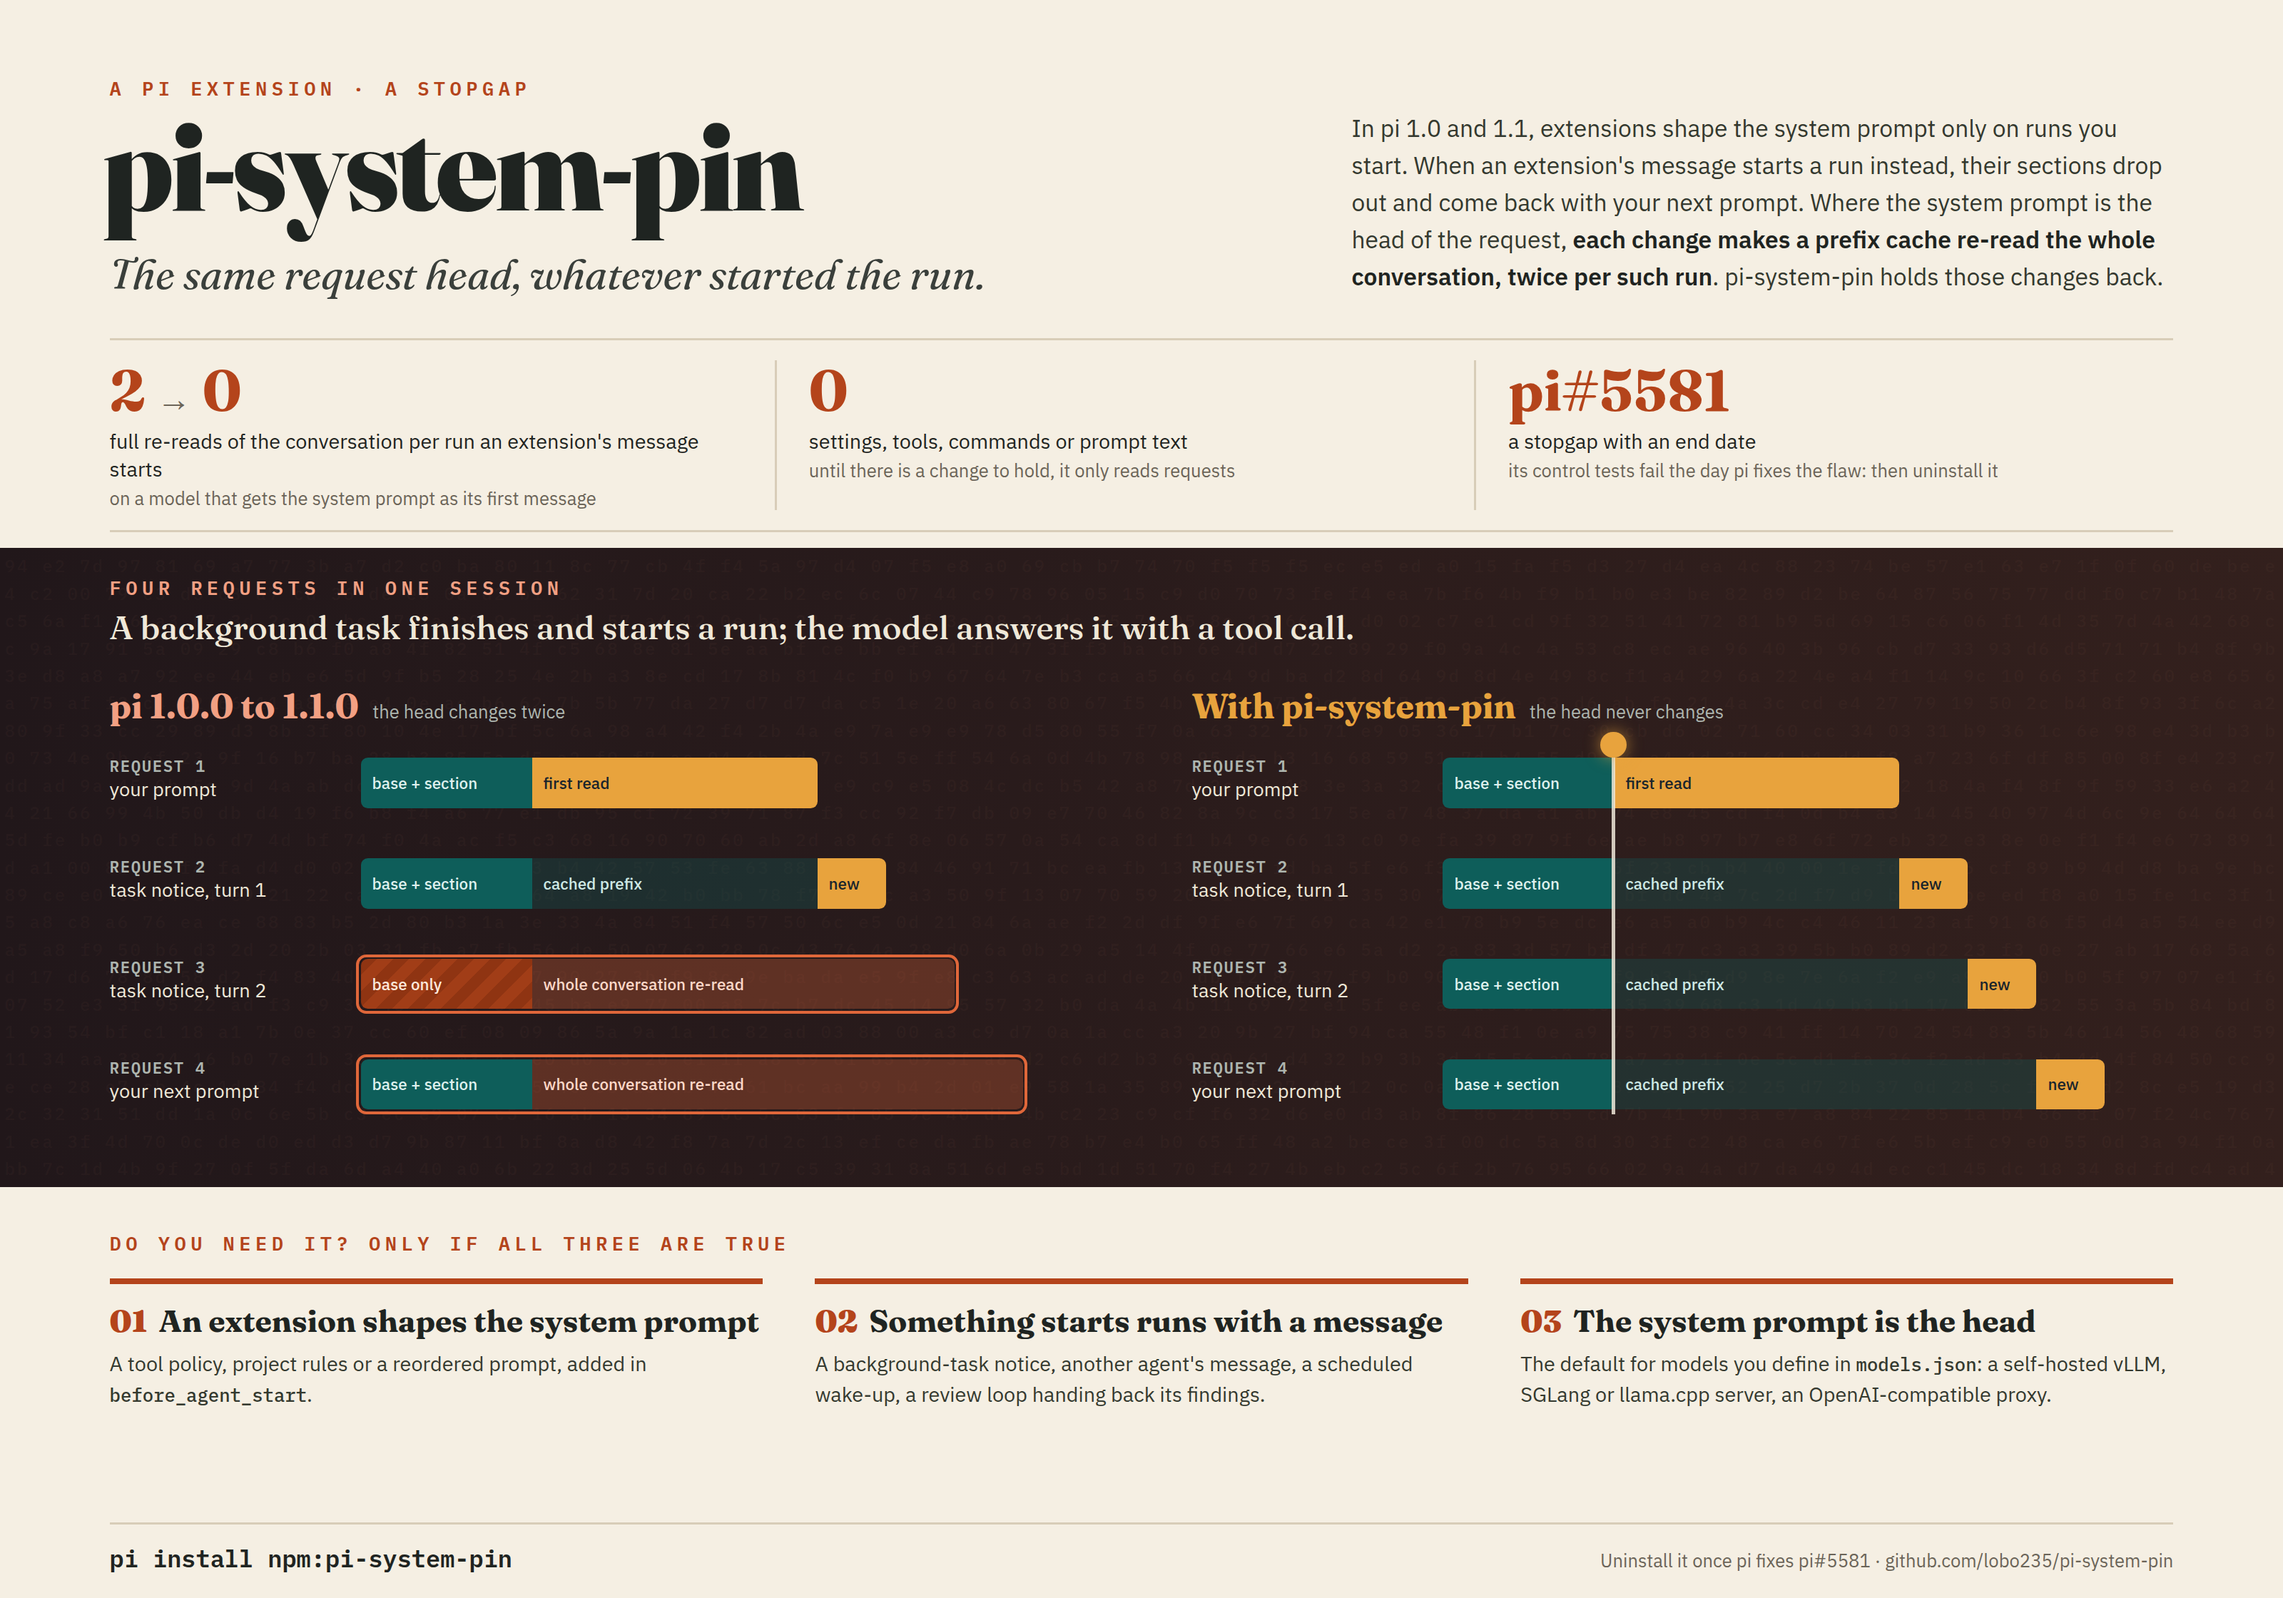
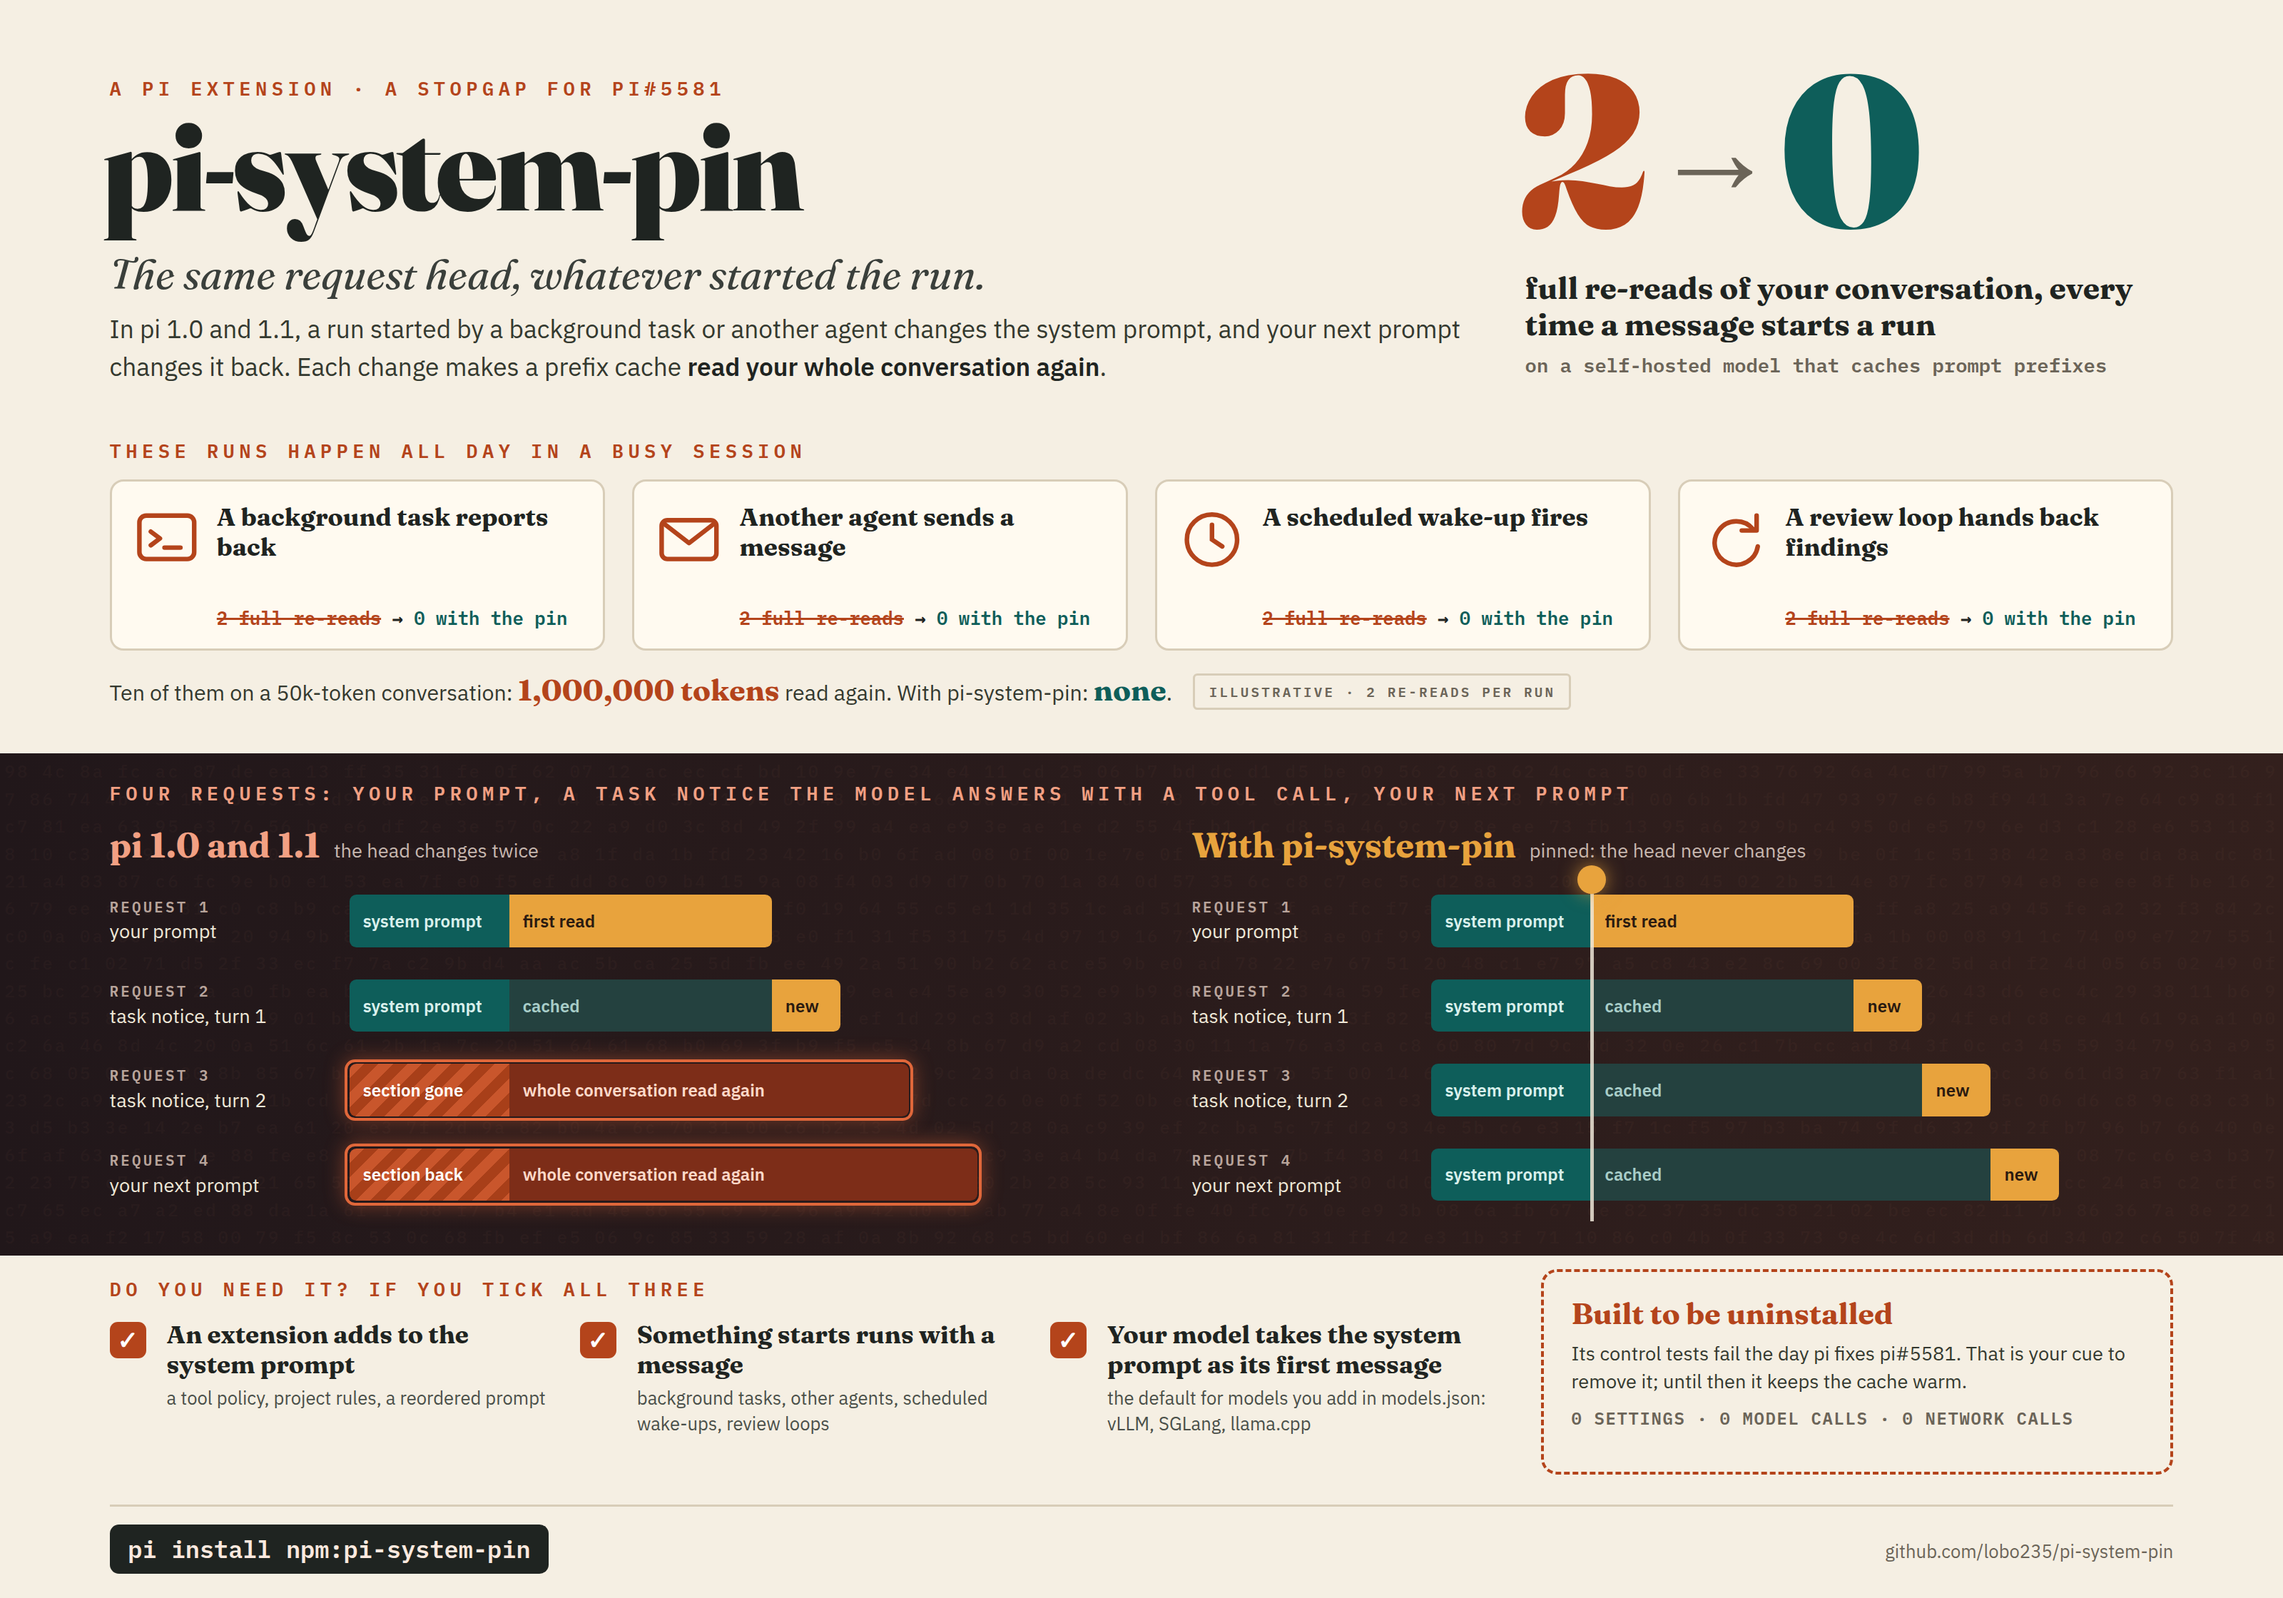
Infographic: lead with the benefit, show the before and after (#12)
Redesigns the README and pi.dev infographic to sell the extension rather
than document it:

- a single headline benefit up top, in the package's own motif;
- a before/after the reader gets at a glance;
- why it beats the alternatives, or who it is for;
- a clear install call.

Every number is taken from the README (measured), or is labelled
illustrative. The README alt text is updated to match.

No code changes.

diff --git a/README.md b/README.md
@@ -1,6 +1,6 @@
 # pi-system-pin
 
-![pi-system-pin: four requests in one session; without it the request head changes when a background task's run drops the extensions' sections and again when the next prompt restores them, each time re-reading the whole conversation; with it the head never changes and every request reuses the cached prefix](https://raw.githubusercontent.com/lobo235/pi-system-pin/main/.github/assets/infographic.png)
+![pi-system-pin: on pi 1.0 and 1.1 a run started by a background task, another agent, a scheduled wake-up or a review loop costs two full re-reads of the conversation; over four requests the request head changes twice without it and never with it](https://raw.githubusercontent.com/lobo235/pi-system-pin/main/.github/assets/infographic.png)
 
 **The same request head, whatever started the run.** A stopgap for
 [pi#5581](https://github.com/earendil-works/pi/issues/5581): it keeps a request's system block byte-identical
